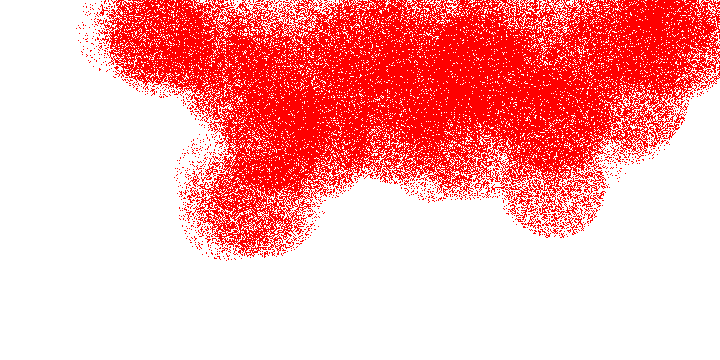
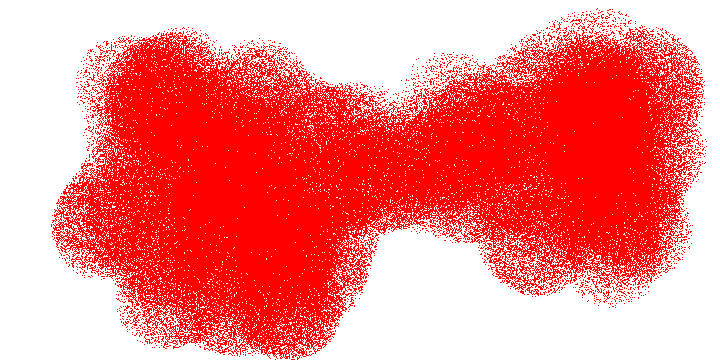
alternative fire field

diff --git a/main.py b/main.py
@@ -165,7 +165,7 @@ world = World(ROWS, COLS, CELL_SIZE)
 FIRE_COLS = 72
 FIRE_ROWS = 36
 fire_surface, fire_grid, fire_bounds = load_fire_bitmap(
-    "fire2.png", world.cols, world.rows, fire_cols=FIRE_COLS, fire_rows=FIRE_ROWS
+    "fire1.png", world.cols, world.rows, fire_cols=FIRE_COLS, fire_rows=FIRE_ROWS
 )
 
 # Generate obstacles
